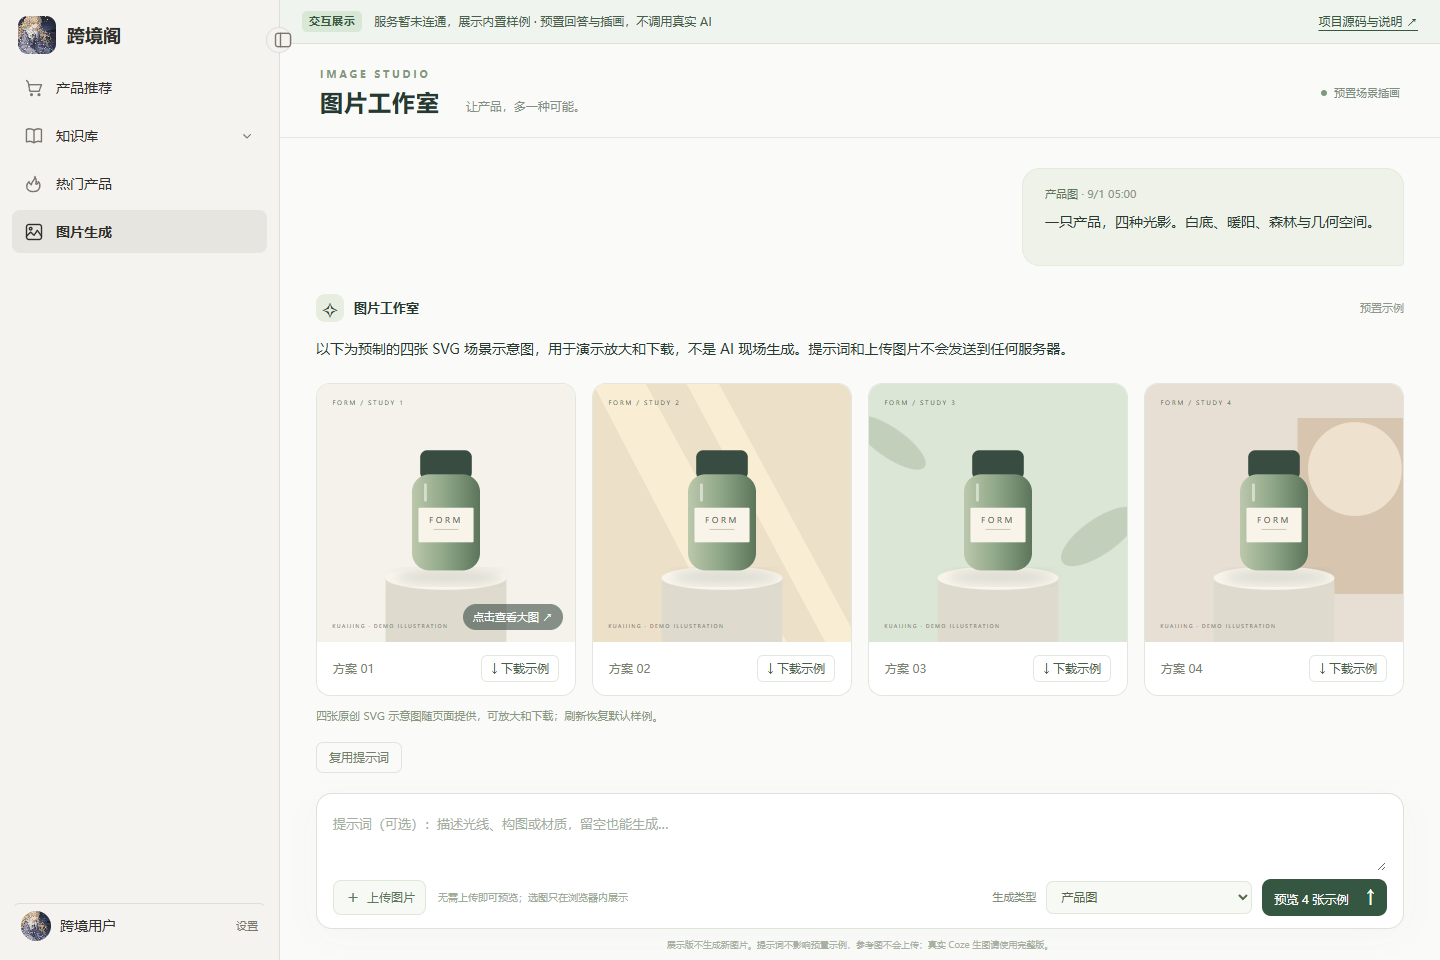
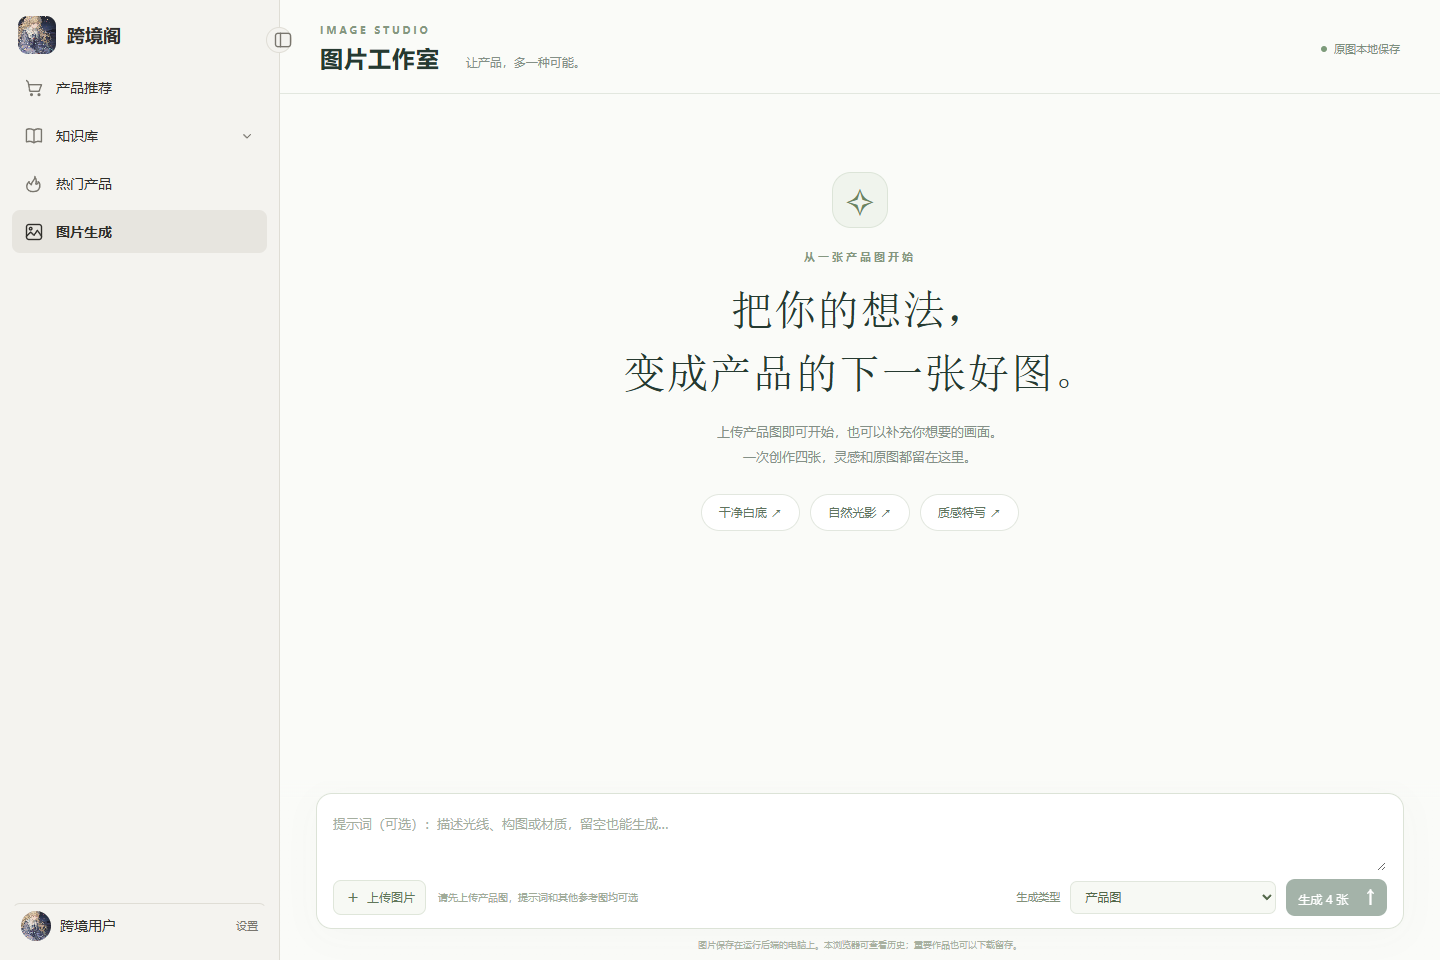
Publish live backend pages and document knowledge migration

diff --git a/scripts/package_upload.py b/scripts/package_upload.py
@@ -83,7 +83,7 @@ def main():
     needed = {".dockerignore", "compose.baota.yaml", "deploy/Dockerfile.api", "deploy/backend.baota.env.example",
               "deploy/baota-proxy.conf", "deploy/baota-init.sh", "deploy/baota-inspect.sh", "docs/baota-upload-steps.md",
               "docs/github-pages-cloud-tutorial.md", "docs/github-docker-deployment-tutorial.md",
-              "deploy/enable-pages-origin.sh", "docs/pages-auto-connect.md"}
+              "deploy/enable-pages-origin.sh", "deploy/import-knowledge.sh", "docs/pages-auto-connect.md"}
     backend = [p for p in paths if p.relative_to(ROOT).as_posix() in needed or
                (p.relative_to(ROOT).parts[0] == "backend" and "tests" not in p.parts)]
     required = {"backend/app.py", "backend/requirements.txt", "backend/zhishiku/requirements.txt"} | needed

diff --git a/scripts/verify_demo.py b/scripts/verify_demo.py
@@ -8,7 +8,7 @@ from pathlib import Path
 from playwright.sync_api import sync_playwright, expect
 
 ROOT = Path(__file__).resolve().parents[1]
-OUT = ROOT / 'docs' / 'screenshots'
+OUT = ROOT / 'docs' / 'verification' / 'demo'
 OUT.mkdir(parents=True, exist_ok=True)
 URL = 'http://127.0.0.1:5175/kuajing/'
 

diff --git a/README.md b/README.md
@@ -1,39 +1,44 @@
 # 跨境阁 · 跨境电商 AI 工作台
 
-[在线体验](https://ruoxiao00.github.io/kuajing/) · [备案后连接指南](docs/pages-auto-connect.md) · [本地配置手册](docs/local-development.md)
+[在线访问](https://app.qiyuange.online/) · [管理员登录](https://app.qiyuange.online/#/admin) · [本地运行](docs/local-development.md) · [部署说明](docs/pages-auto-connect.md)
 
-React + FastAPI 全栈项目，将跨境运营知识问答、商品发现、每日推荐和产品图片创作放在同一个工作台中。重点实现可追溯的 RAG 回答、可恢复的后台任务，以及有明确边界的前端交互。
+React + FastAPI 全栈项目，将跨境运营知识问答、商品发现、每日推荐和产品图片创作放在同一个工作台中。重点实现可追溯的 RAG 回答、可恢复的后台任务，以及清晰的加载与失败状态。
 
-**在线站点优先连接真实后端；无法连接时自动展示内置样例。** 顶部会标明展示模式，样例商品、预置问答和 SVG 场景插画均不代表实时市场数据或 AI 现场生成结果。无需登录或填写密钥即可体验展示版。
+**线上页面仅连接真实后端，不使用样例兜底。** 后端不可用时显示实际错误；已有商品快照可以继续浏览，但会标明更新时间。管理员入口需要登录，普通访客无法上传或修改知识库。
 
-![知识库流式问答展示](docs/screenshots/knowledge.png)
+## 页面入口
 
-## 可以体验什么
-
-| 页面 | 展示模式 | 接通后端后的完整版 |
+| 页面 | 链接 | 功能 |
 | --- | --- | --- |
-| 产品推荐 | 8 类选品样例、类别切换、来源悬浮层 | 北京时间每天 05:00 生成；SQLite 保存快照，刷新只读结果 |
-| 热门产品 | 96 件模拟商品、筛选、下滑分页、示例汇率换算 | Playwright 本机采集、ASIN 去重、价格校验与人民币换算 |
-| 知识库 | 4 组预置 SSE 回答、引用卡片、多会话、停止生成 | LangGraph 编排问题改写、Chroma 检索、精排和 Qwen 回答 |
-| 图片工作室 | 四张预制插画，支持放大、下载、参考图本地预览 | 产品图上传 → Coze 工作流 → 四图存档与历史查看 |
-| 设置 | 昵称、默认首页、侧栏和浏览偏好 | 同样保存在当前浏览器 |
+| 产品推荐 | [打开](https://app.qiyuange.online/#/tuijian) | 定时生成的推荐快照、类别切换、分析与资料来源 |
+| 热门产品 | [打开](https://app.qiyuange.online/#/remeng) | 商品筛选、下滑分页、有效价格校验与人民币换算 |
+| 知识库 | [打开](https://app.qiyuange.online/#/zhishiku) | 带资料引用的流式问答、会话管理 |
+| 图片工作室 | [打开](https://app.qiyuange.online/#/tupian) | 产品参考图、Coze 工作流、四图存档与下载 |
+| 管理后台 | [登录](https://app.qiyuange.online/#/admin) | 管理员登录、文档上传和知识库统计 |
 
-展示版不上传参考图片，不请求模型、爬虫或收费生图接口。没有匹配的问题会说明演示范围；图片提示词不会改变预制插画。示例创作记录在刷新后重置，聊天和浏览偏好保存在与真实模式隔离的 localStorage 中。
+## 界面预览
+
+以下截图来自线上真实页面。商品展示已保存的采集结果；知识库与图片工作室截图展示页面入口，不以预置回答或插画充当真实模型输出。数据和服务状态可能随时间变化。
+
+| 产品推荐 | 热门产品 |
+| --- | --- |
+| ![产品推荐](docs/screenshots/recommendations.png) | ![热门产品](docs/screenshots/products.png) |
+
+![知识库](docs/screenshots/knowledge.png)
+
+![图片工作室](docs/screenshots/images.png)
 
 ## 工程实现
 
-- **有来源的问答**：最近对话辅助改写检索问题，召回 12 个候选知识块，精排后最多 5 个进入回答上下文；无资料走条件分支，精排失败可降级。图编排用于约束工作流，并非自主规划 Agent。
+- **有来源的问答**：最近对话辅助改写检索问题，召回 12 个候选知识块，精排后最多 5 个进入回答上下文；无资料走条件分支，精排失败可降级。LangGraph 用于约束工作流。
 - **流式聊天体验**：SSE 解析、token 分帧合并、Markdown 增量显示；上滑阅读暂停自动跟随，停止或切换会话时取消请求。
 - **持久化推荐**：先采集候选再分析；按 ASIN 跨类别去重，并参考近 7 天历史轮换。周期标识与任务锁防止重复执行，完整快照事务发布，失败保留历史并在 15 分钟后补试一次。
 - **图片任务恢复**：供应商密钥只在后端；请求幂等、异步状态轮询，原图下载到服务端后再提供历史与下载入口，避免只保存会过期的供应商链接。
-- **自动展示兜底**：启动时通过带 CORS 校验的只读健康检查选择数据源；网络失败、超时、非 JSON 拦截页均进入展示。每分钟检查恢复，切换时重新加载，避免一段对话混入两种数据。
 - **部署分离**：GitHub Actions 构建 Pages 静态前端；FastAPI 运行于 Docker，宿主 Nginx 提供 HTTPS。Hash 路由支持静态站直接打开和刷新子页面。
 
 ```mermaid
 flowchart LR
-    U[React 页面] --> D{启动时健康检查}
-    D -->|失败| S[本地样例与 SSE 适配器]
-    D -->|成功| A[FastAPI]
+    U[React / GitHub Pages] --> A[HTTPS / FastAPI]
     A --> K[LangGraph RAG]
     K --> V[Chroma / Qwen]
     A --> P[Playwright 商品采集]
@@ -44,39 +49,20 @@ flowchart LR
     I --> F[服务端原图存档]
 ```
 
-## 界面预览
+## 数据更新与可用性
 
-以下截图均来自展示版，不是实际爬取商品或实际模型输出。
+- **产品推荐**：后端在北京时间每天 05:00 开始生成。页面刷新只读取快照，不触发模型和抓取。更新失败时保留最近可用结果，并显示失败说明和实际生成时间。
+- **热门产品**：优先显示最近保存的首屏，后台获取最新数据，下滑时按页继续采集。来源限流、验证码或网络故障可能导致新数据暂时不可用；保留旧商品不等于本次更新成功。
+- **知识库**：数据不随源码上传。部署后需要导入资料或迁移已有向量库；空库不会生成无依据的回答。迁移方式见 [运行手册](docs/local-development.md#已有知识库迁移)。
+- **图片生成**：至少上传一张产品图，提示词可选；真实提交会调用已配置的工作流。历史与下载依赖当前浏览器 Cookie。
 
-| 产品推荐 | 热门产品 |
-| --- | --- |
-| ![类别切换](docs/screenshots/recommendations.png) | ![商品筛选与价格](docs/screenshots/products.png) |
+## 本地运行完整版
 
-![图片工作室](docs/screenshots/images.png)
-
-## 本地运行展示版
-
-需要 Node.js 22.12+。
+需要 Python 3.13、Node.js 22.12+，以及自己配置的百炼和 Coze 凭据。完整配置和知识导入流程见 [本地运行手册](docs/local-development.md)。
 
 ```bash
 git clone https://github.com/RuoXiao00/kuajing.git
 cd kuajing
-npm ci
-npm run dev:demo
-```
-
-打开终端提示的地址。此模式不需要 Python、后端或任何 API 密钥。
-
-```bash
-npm run build:demo
-npm run preview
-```
-
-## 本地运行完整版
-
-需要 Python 3.13、Node.js 22.12+，以及自己配置的百炼和 Coze 凭据。完整字段、管理员账号与知识导入流程见 [本地配置手册](docs/local-development.md)。
-
-```bash
 python -m venv .venv
 # Windows PowerShell：.\.venv\Scripts\Activate.ps1
 # Linux / macOS：source .venv/bin/activate
@@ -85,7 +71,7 @@ python -m playwright install chromium
 npm ci
 ```
 
-首次从 `.env.example` 复制为 `.env`，不要覆盖已有配置。填写密钥与管理员配置；使用刚安装的 Chromium 时设置 `AMAZON_BROWSER_CHANNEL=chromium`。随后分别在两个终端运行：
+首次从 `.env.example` 复制为 `.env`，填写后端凭据和管理员配置，不要覆盖已有配置。使用刚安装的 Chromium 时设置 `AMAZON_BROWSER_CHANNEL=chromium`。分别在两个终端运行：
 
 ```bash
 python -m backend.run_api
@@ -95,28 +81,26 @@ python -m backend.run_api
 npm run dev
 ```
 
-真实模式需要配置数据来源；知识库初始为空时先导入资料。每天推荐调度需要后端持续运行，电脑或服务器关机期间不会执行。模型、生图和实际采集不属于展示版的离线行为。
+默认本地前端通过 Vite 代理访问 8000 端口。每日推荐需要后端持续运行。
 
 ## 验证
 
 ```bash
 npm run lint
 npm run test:frontend
-npm run build:demo
+npm run build
 ```
 
-前端测试覆盖价格和币种、快照、已浏览商品轮换、聊天存储、流式文本、示例接口、取消读取及健康检测。浏览器验收脚本：
+前端测试覆盖价格和币种、快照、商品轮换、聊天存储及流式文本。[Pages 浏览器验收脚本](scripts/verify_pages.py) 使用临时服务和供应商替身检查子路径刷新、同站跨域 Cookie 和图片历史，不写正式数据库。
 
-- [verify_demo.py](scripts/verify_demo.py)：离线兜底、商品分页、预置 SSE、四图放大/下载、移动布局，以及模拟真实服务恢复。
-- [verify_pages.py](scripts/verify_pages.py)：Hash 子路径刷新、同站跨域 Cookie 和图片历史；用临时服务和供应商替身，不写正式数据库。
+项目内保留 `npm run dev:demo` 作为本地离线交互测试工具；GitHub Pages 发布流程固定真实模式，不部署该工具的样例内容作为业务数据。
 
-## 部署与自动连接
+## 部署
 
-默认 Pages 构建使用 `auto`，后端地址为 `https://api.qiyuange.online`。真实服务连通后，新打开或刷新页面会自动使用真实接口；后台恢复检测不会打断已经开始的输入。已经提交的真实生图或问答失败，会明确报错，不会偷偷改成样例“成功”。
+前端：`https://app.qiyuange.online`，由 GitHub Pages 托管。
+后端：`https://api.qiyuange.online`，由 Docker + Nginx 提供服务。
 
-`github.io` 与业务域名属于不同站点，真实图片历史及管理员登录使用 Strict Cookie，需要通过 `app.qiyuange.online` 的 Pages 自定义域名访问；仅添加 CORS 不能解决 Cookie 的同站限制。
-
-[自动连接的服务器命令与域名配置](docs/pages-auto-connect.md) 包含一次性配置、验证及回退方式。展示入口可独立使用，尚未配置好的线上能力不视为已部署完成。
+真实图片历史及管理员登录使用 Strict Cookie，通过同一主域名下的 app / api 子域名访问。[部署说明](docs/pages-auto-connect.md) 包含 CORS、域名、健康检查及数据迁移入口。HTTPS 可访问与备案状态是不同事项，生产可用性应分别验证。
 
 ## 代码导航
 
@@ -126,11 +110,10 @@ npm run build:demo
 | `src/compoment/remeng/` | 商品分页、缓存、已浏览记录和价格换算 |
 | `src/compoment/tuijain/` | 每日快照展示与类别切换 |
 | `src/compoment/tupian/` | 上传、任务状态、图片历史与下载 |
-| `src/runtime.js` / `src/demo/` | 自动探测、样例数据与接口适配 |
 | `backend/zhishiku/` | RAG 图、文档入库、检索与管理接口 |
 | `backend/tuijian/` | 推荐图、定时任务与 SQLite |
 | `backend/remen/` | 商品采集与首屏快照 |
 | `backend/tupian/` | Coze 调用、图片任务与原图存档 |
 | `deploy/` / `.github/workflows/` | Docker、反向代理与 Pages 发布 |
 
-公开仓库仅包含源码、配置模板与展示样例；真实密钥、知识资料、数据库、用户图片和运行日志不提交。
+公开仓库只保存项目源码、配置模板、测试及必要的运行说明；真实密钥、知识资料、数据库、用户图片和运行日志不提交。

diff --git a/docs/pages-auto-connect.md b/docs/pages-auto-connect.md
@@ -1,106 +1,64 @@
-# 备案通过后：自动连接真实后端
+# GitHub Pages 与真实后端连接
 
-前端已经设置为优先连接 `https://api.qiyuange.online`。检测失败时展示样例，检测通过时加载真实页面。**不需要等备案通过再改代码、换压缩包或重建前端。** 下面的服务器和域名配置需要做一次；前端代码无法替你修改云服务器的跨域白名单或 DNS。
+线上入口：[app.qiyuange.online](https://app.qiyuange.online/)。
+后端地址：`https://api.qiyuange.online`。
+管理员入口：[登录管理后台](https://app.qiyuange.online/#/admin)。
 
-## 1. 在服务器执行一次
+## 发布模式
 
-你现有后端已经运行于 `/www/kuajing-next`，容器端口为 `127.0.0.1:18000`。在宝塔终端复制：
+GitHub Actions 的 Pages 工作流固定 `VITE_CONNECTION_MODE=live` 和 `VITE_DEMO_MODE=false`，直接请求真实后端。不会在连接失败时显示样例，不执行原来 2.5 秒的启动探测；页面按真实请求显示加载、缓存或错误状态。
+
+推送 main 会自动发布，也可以在 Actions → Publish frontend to GitHub Pages → Run workflow 手动发布。旧的 PAGES_MODE 仓库变量不再控制线上模式。本地离线测试工具仍可独立使用，不影响线上。
+
+## 服务器跨域配置
+
+已配置过可以跳过。宝塔部署在 `/www/kuajing-next` 时，执行一次：
 
 ```bash
-cd /www/kuajing-next
-curl --fail --show-error --location https://raw.githubusercontent.com/RuoXiao00/kuajing/main/deploy/enable-pages-origin.sh -o deploy/enable-pages-origin.sh
+cd /www/kuajing-next &&
+curl -fL https://raw.githubusercontent.com/RuoXiao00/kuajing/main/deploy/enable-pages-origin.sh -o deploy/enable-pages-origin.sh &&
 bash deploy/enable-pages-origin.sh
 ```
 
-脚本源码：[enable-pages-origin.sh](../deploy/enable-pages-origin.sh)。
+脚本保留 env 备份，设置 app 与 GitHub Pages 的准确来源，重建容器读取 env；不重建镜像，不修改供应商密钥。
 
-它会备份 `deploy/backend.env`，把允许来源配置为：
+## 域名与 Cookie
 
-```text
-FRONTEND_ORIGINS=https://ruoxiao00.github.io,https://app.qiyuange.online
-COOKIE_SECURE=true
-```
+- app：CNAME 指向 `RuoXiao00.github.io`，Pages 的 Custom domain 设置为 `app.qiyuange.online`。
+- api：A 记录指向 API 服务器，由 Nginx 配置 HTTPS 和 `http://127.0.0.1:18000` 反向代理。
+- GitHub Pages 的自定义域名证书可用后启用 Enforce HTTPS。首次更换自定义域名后重新发布一次以更新资源基础路径。
+- 图片历史及管理员登录使用 HttpOnly + Strict Cookie，通过同一主域名下的 app / api 访问。使用 github.io 原始地址时，Cookie 功能会提示切到项目域名。
 
-不会打印或替换你的百炼、Coze、管理员密码和会话密钥，不删除任何数据库或图片。Compose 会重新创建容器以读取配置，短暂中断接口；不构建镜像、不重新下载依赖。`docker restart` 不会重新读取 env_file，所以不能替代这一步。
+参考：[GitHub 自定义域名文档](https://docs.github.com/en/pages/configuring-a-custom-domain-for-your-github-pages-site/managing-a-custom-domain-for-your-github-pages-site)、[Cookie 属性](https://developer.mozilla.org/en-US/docs/Web/HTTP/Reference/Headers/Set-Cookie)。
 
-下载若因服务器无法连接 GitHub 失败，停止，不执行不完整脚本；可将仓库中该脚本上传到相同位置后运行。没有必要重新上传整个后端。
+## 验收
 
-## 2. 把 Pages 绑定到自己的前端域名
-
-展示版现在可以直接用：
-
-**https://ruoxiao00.github.io/kuajing/**
-
-真实图片历史和管理员登录采用 Strict Cookie。`github.io` 与 `qiyuange.online` 不是同一站点；即使 CORS 已配置，Cookie 也不能据此正常携带。为了避免创建付费图片后无法读回结果，真实模式在 github.io 地址下会提示使用项目域名。
-
-请做以下一次性配置：
-
-1. 仓库 **Settings → Pages → Custom domain** 填写 `app.qiyuange.online`，保存。
-2. 阿里云 DNS 添加记录：
-
-| 主机记录 | 类型 | 记录值 |
-| --- | --- | --- |
-| app | CNAME | RuoXiao00.github.io |
-
-3. 保留已有的 `api` A 记录，仍指向后端服务器。不要将 app 指向服务器 IP，也不要在 CNAME 后面加 `/kuajing`。
-4. Pages 显示 DNS 检查通过、证书可用后，勾选 **Enforce HTTPS**。
-5. 仓库 **Actions → Publish frontend to GitHub Pages → Run workflow**，mode 保持 **auto**，执行一次，让构建获取自定义域名的根路径。此后入口为 **https://app.qiyuange.online/**。
-
-前端仍托管在 GitHub Pages，后端仍在阿里云；这不是迁移前端服务器。GitHub 自定义域名设置和 DNS 生效可能需要等待。步骤依据 [GitHub 官方自定义域名说明](https://docs.github.com/en/pages/configuring-a-custom-domain-for-your-github-pages-site/managing-a-custom-domain-for-your-github-pages-site)，Cookie 行为见 [MDN Set-Cookie](https://developer.mozilla.org/en-US/docs/Web/HTTP/Reference/Headers/Set-Cookie)。
-
-## 3. 备案通过后，验证一次即可
-
-备案状态更新与公网放行不一定同时完成。请在你自己的电脑 PowerShell 中执行，而不是使用服务器内的绕过域名测试：
+从个人电脑执行，而非仅在服务器内部测试：
 
 ```powershell
-curl.exe --fail --max-time 10 https://api.qiyuange.online/api/knowledge/health
-curl.exe -i --max-time 10 -H "Origin: https://app.qiyuange.online" https://api.qiyuange.online/api/knowledge/health
+curl.exe --fail --max-time 15 https://api.qiyuange.online/api/knowledge/health
+curl.exe -i --max-time 15 -H "Origin: https://app.qiyuange.online" https://api.qiyuange.online/api/knowledge/health
 ```
 
-预期：
+检查返回 JSON 和 `access-control-allow-origin: https://app.qiyuange.online`，以及 `access-control-allow-credentials: true`。浏览器中的真实请求同样要验证；单次成功不能说明所有网络路径均稳定。
 
-- 返回 JSON，status 为 `ok` 或 `degraded`；后者表示精排降级，仍可使用。
-- 第二条响应包含 `access-control-allow-origin: https://app.qiyuange.online` 和 `access-control-allow-credentials: true`。
-- 若返回备案拦截页、证书错误或无法连接，前端会继续展示样例。不要关闭 HTTPS 或改回 HTTP。
+app 前端页面可访问，不等于内地服务器上的 api 已免除备案要求。按阿里云的说明，中国内地云资源对外提供网站服务需要完成相应备案，域名与 SSL 配置不能替代该流程。[阿里云备案说明](https://help.aliyun.com/zh/icp-filing/basic-icp-service/user-guide/icp-filing-application-overview)
 
-随后打开 **https://app.qiyuange.online/**：
+## 商品更新状态
 
-- 自动检测成功，顶部的“交互展示”提示消失。
-- 产品推荐读取真实快照；知识库显示实际文档数量。
-- 如果文档数为 0，先通过管理页导入知识文件，否则无法验证有资料的真实 RAG 回答。
-- 上传产品图并提交后才调用收费生图；这不是检测步骤，不会自动替你生成图片。
+每日推荐只读取后端快照，刷新页面不会触发生成。05:00 的更新失败时保留上期结果；失败后补试一次，仍失败等待下一期。
 
-## 自动行为的边界
-
-- 每次打开或刷新页面，最多等待 2.5 秒检测真实后端；较慢或暂时故障会优先保障展示。
-- 展示模式在页面可见时每分钟检测，重新切回标签页也检测。
-- 没有操作时检测恢复可自动刷新；已经操作的页面会提示恢复，并在下一次切换页面时连接，避免清空正在输入的提示词。也可点“立即连接”。
-- 已经开始的真实请求不会转成伪造成功结果。单个模型、爬虫或 Coze 失败仍按真实错误处理；重新打开页面会再次判断连接状态。
-- 样例商品、会话与真实模式缓存隔离，不把样例存进服务器。
-- 自动检测只读健康状态，不生成每日推荐，不调用 Coze 或回答模型。
-
-## 不想自动连接时如何切换
-
-通常不用修改这些设置。需要固定展示给面试官时，在仓库 **Settings → Secrets and variables → Actions → Variables** 设置：
-
-| 变量 | 值 |
-| --- | --- |
-| PAGES_MODE | demo |
-
-再在 Actions 执行 mode=demo。要恢复自动连接，改为 auto 并执行 mode=auto。仅在手动运行中选模式只影响那一次发布；后续 push 使用仓库变量，未设置时默认 auto。
-
-其他可选变量：
-
-- `VITE_API_BASE_URL`：更换真实后端域名时才填，默认已是 `https://api.qiyuange.online`。不要加 /api，也不要放密钥。
-- `PAGES_MODE=live`：强制真实服务，不做启动时样例回退。
-
-## 如果服务器配置后异常
-
-配置脚本会在 `deploy/` 下留下 `backend.env.backup-时间`。用宝塔找到本次备份，复制覆盖回 `backend.env`，权限保持 600，再执行：
+热门商品先读已保存的首屏，再获取最新商品及下一页。来源限制访问、验证码、超时属于采集失败，页面应显示说明并保留已有商品。排查服务器可先查看：
 
 ```bash
 cd /www/kuajing-next
-docker compose -f compose.baota.yaml up -d --no-build --wait --wait-timeout 180
+docker compose -f compose.baota.yaml ps
+docker compose -f compose.baota.yaml logs --since 2h --tail 200 api
+curl -fsS http://127.0.0.1:18000/api/recommendations/latest
 ```
 
-不要执行 `down -v`，不要删除 server-data。
+最后一条仅读取快照。不要通过不断刷新或高频重跑增加商品来源压力。
+
+## 知识库数据
+
+源码仓库不含知识正文或向量库。小量新增资料可在 [管理员页面](https://app.qiyuange.online/#/admin) 登录上传 DOCX/PDF/TXT；已有库可按 [迁移说明](local-development.md#已有知识库迁移) 整体搬运，避免重新调用 Embedding。
